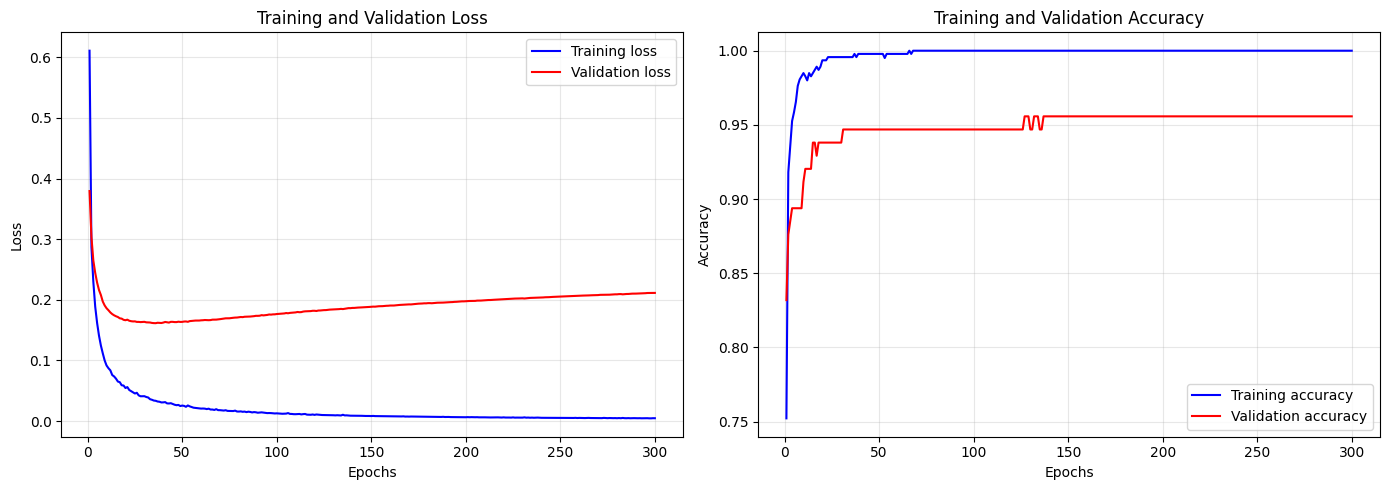
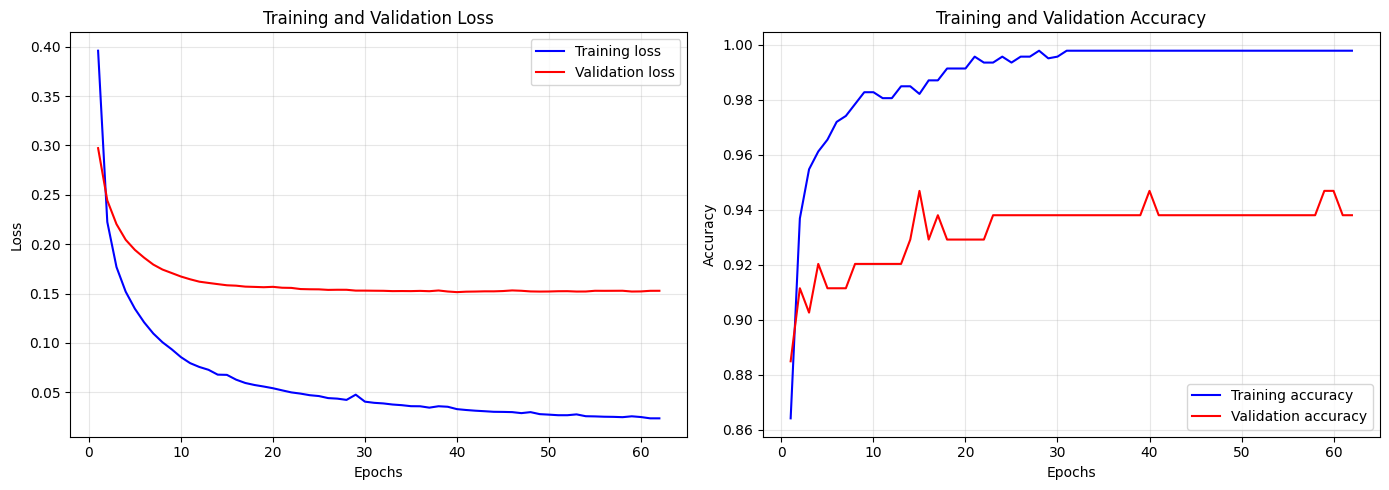
feat: fix epoch bug

diff --git a/src/neural_network/network.py b/src/neural_network/network.py
@@ -154,6 +154,7 @@ class Network:
         n_batches = (n_samples + batch_size - 1) // batch_size
         best_weights = None
         best_val_loss = float('inf')
+        best_epoch = 0
         wait = 0
 
         for epoch in range(epochs):
@@ -186,12 +187,13 @@ class Network:
             
             if val_loss < best_val_loss:
                 best_val_loss = val_loss
+                best_epoch = epoch
                 best_weights = copy.deepcopy(self.layers)
             else:
                 wait += 1
                 if wait >= patience:
                     # self.layers = best_weights
-                    print("\nEND of train\n")
+                    print("\nEND of train -> best epoch = " , best_epoch , "\n")
                     break
             # Store history
             self.history['train_loss'].append(train_loss)

diff --git a/scripts/train.py b/scripts/train.py
@@ -74,7 +74,7 @@ def main():
     epochs = 300
     learning_rate = 0.1
     batch_size = 16
-    patience = 300
+    patience = 30
 
     # Train the network
     network.train(
